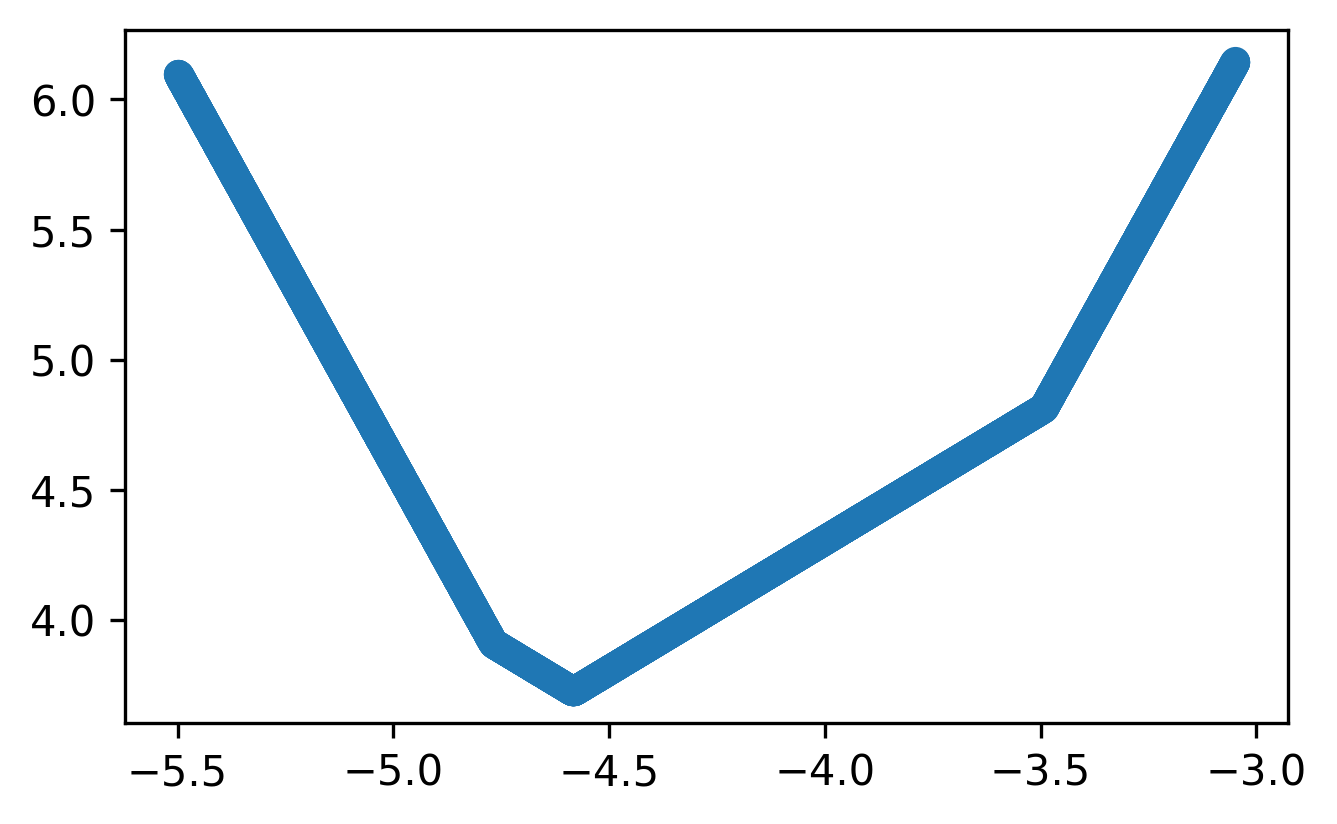
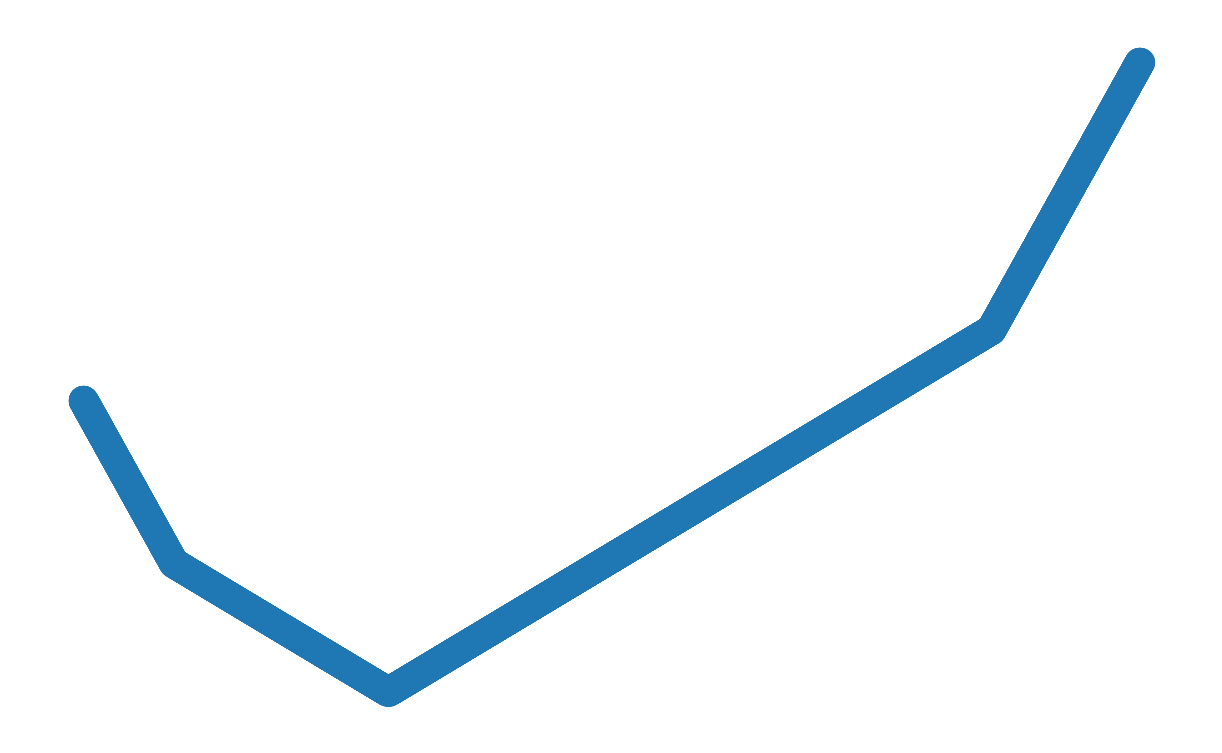
[MERGE] Updated logs and images
[MERGE] Updated logs and images

diff --git a/main.py b/main.py
@@ -16,8 +16,8 @@ parser.add_argument(
 parser.add_argument(
     '--exp',
     type=int,
-    default=1,
-    help='Experiment id (1: 2 clusters, 2: 3 clusters)'
+    default=2,
+    help='Experiment id (2: 2 clusters, 3: 3 clusters)'
 )
 
 
@@ -27,8 +27,8 @@ def main():
 
     minkowski_parameter = [0.2, 0.6, 1, 1.5, 2, 3, 5]
     T_parameter = [0, 0.1, 0.2, 0.3, 0.4, 0.5, 0.6, 0.7, 0.8, 0.9]
-    repeats = 10
-    n_points = [500, 1000]
+    repeats = 100
+    n_points = [100, 500, 1000]
 
     dimension = 20
     n_clusters, prob, mu_list, cov_matrices = get_experiment_data(
@@ -36,7 +36,7 @@ def main():
 
     for points in n_points:
         experiment_name = f'Clusters:{n_clusters}, points:{points}'
-        output_path = experiments_path / f'exp_1_{points}'
+        output_path = experiments_path / f'exp_{args.exp}_points_{points}'
 
         run_experiment(
             n_clusters=n_clusters,

diff --git a/lib/data.py b/lib/data.py
@@ -10,14 +10,14 @@ def get_experiment_data(experiment_id: int, dimension: int) -> tuple[int, float,
     mu_prefix: list[list[float | int]] = [[]]
     sigma_list: list[float | int] = []
 
-    if experiment_id == 1:
+    if experiment_id == 2:
         print('Experiment with 2 clusters')
         n_clusters = 2
         sigma_list = [1, 1]
         prob = 0.5
         mu_prefix = [[-4, 0], [4, 0]]
 
-    elif experiment_id == 2:
+    elif experiment_id == 3:
         print('Experiment with 3 clusters')
         n_clusters = 3
         sigma_list = [1, 1, 1]

diff --git a/graph/plot_minkowski.py b/graph/plot_minkowski.py
@@ -71,6 +71,7 @@ def main():
     ax.scatter(points, minkowski_values)
     # from lib.minkowski import minkowski_distance
     # ax.scatter(centroids[0][dim], minkowski_distance(centroids[0][dim], dimension_data, p))
+    ax.axis('off')
     fig.savefig(str(filename), dpi=300, bbox_inches='tight')
     plt.close(fig)
 
